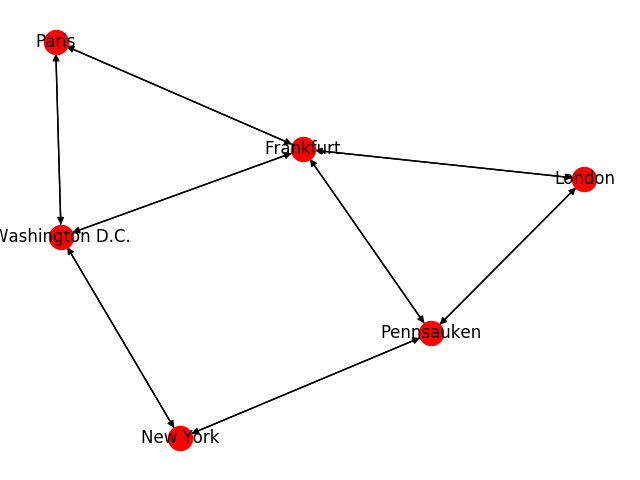
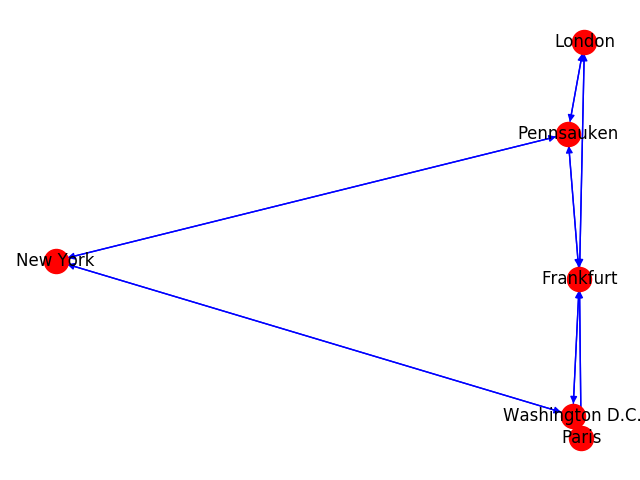
TheSPFAlgorithm

diff --git a/MyProjects/TheSPFAlgorithm/graph_network.py b/MyProjects/TheSPFAlgorithm/graph_network.py
@@ -3,26 +3,31 @@
 import networkx as nx
 import matplotlib.pyplot as plt
 
+# Ориентированный граф.
 G = nx.DiGraph()
 
 G.add_nodes_from(["Pennsauken", "London", "Frankfurt", "New York", "Washington D.C.", "Paris"])
-G.add_edges_from([("Pennsauken", "London"),
-                  ("Pennsauken", "Frankfurt"),
-                  ("Pennsauken", "New York"),
-                  ("London", "Pennsauken"),
-                  ("London", "Frankfurt"),
-                  ("Frankfurt", "London"),
-                  ("Frankfurt", "Pennsauken"),
-                  ("Frankfurt", "Washington D.C."),
-                  ("Frankfurt", "Paris"),
-                  ("Paris", "Frankfurt"),
-                  ("Paris", "Washington D.C."),
-                  ("Washington D.C.", "Paris"),
-                  ("Washington D.C.", "Frankfurt"),
-                  ("Washington D.C.", "New York"),
-                  ("New York", "Washington D.C."),
-                  ("New York", "Pennsauken")])
 
-nx.draw(G,with_labels=True)
+e=[("Pennsauken", "London", 315000),
+   ("Pennsauken", "Frankfurt", 315000),
+   ("Pennsauken", "New York", 26000),
+   ("London", "Pennsauken", 315000),
+   ("London", "Frankfurt", 22000),
+   ("Frankfurt", "London", 22000),
+   ("Frankfurt", "Pennsauken", 315000),
+   ("Frankfurt", "Washington D.C.", 250000),
+   ("Frankfurt", "Paris", 87000),
+   ("Paris", "Frankfurt", 87000),
+   ("Paris", "Washington D.C.", 600000),
+   ("Washington D.C.", "Paris", 600000),
+   ("Washington D.C.", "Frankfurt", 250000),
+   ("Washington D.C.", "New York", 22000),
+   ("New York", "Washington D.C.", 22000),
+   ("New York", "Pennsauken", 26000)]
+G.add_weighted_edges_from(e)
+
+print(nx.dijkstra_path(G,"Pennsauken", "Paris"))
+
+nx.draw(G,pos=nx.spectral_layout(G),nodecolor='r',edge_color='b',with_labels=True)
 plt.savefig("graph_network.png")
 plt.show()
